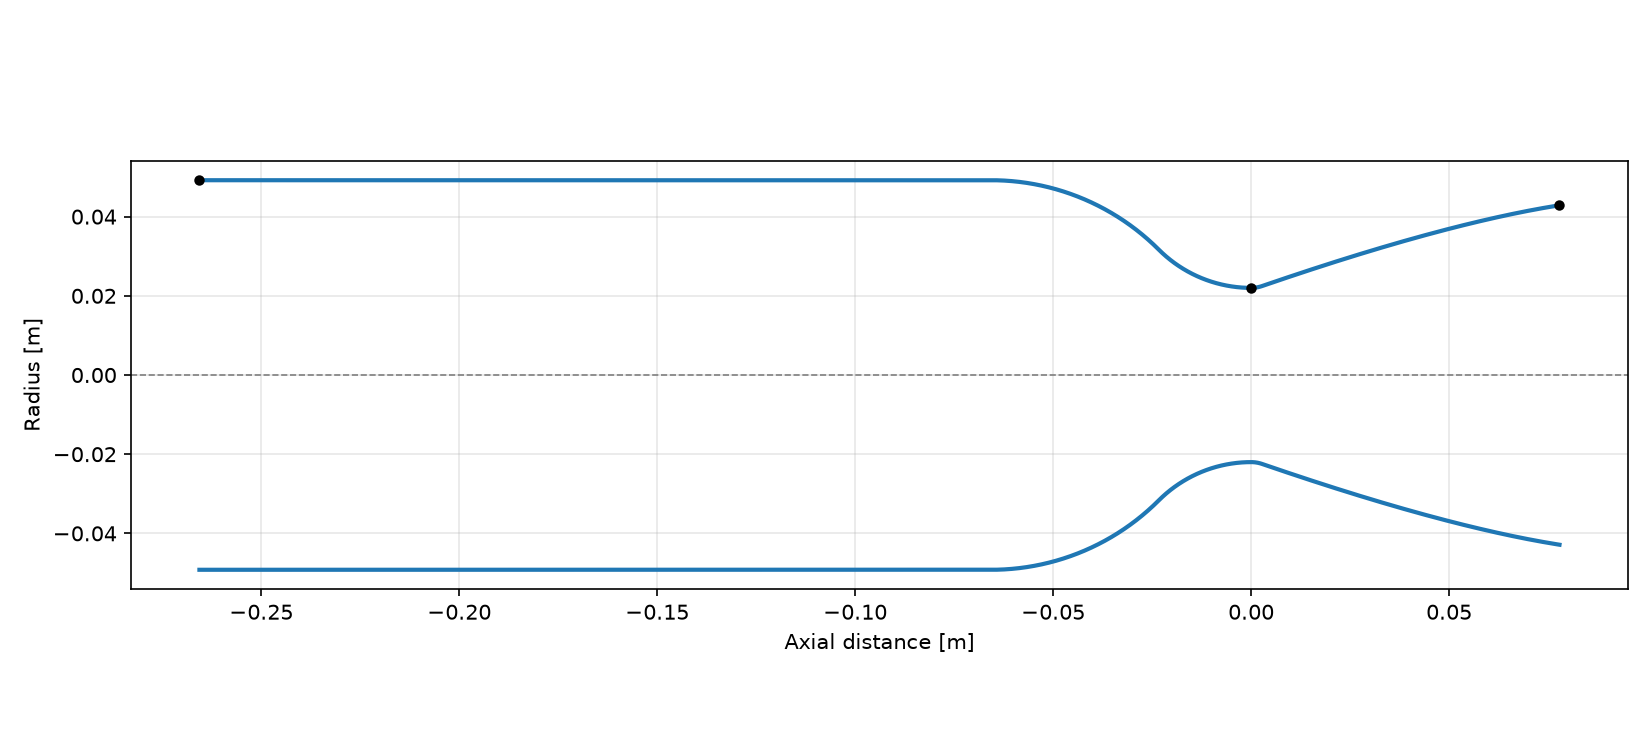
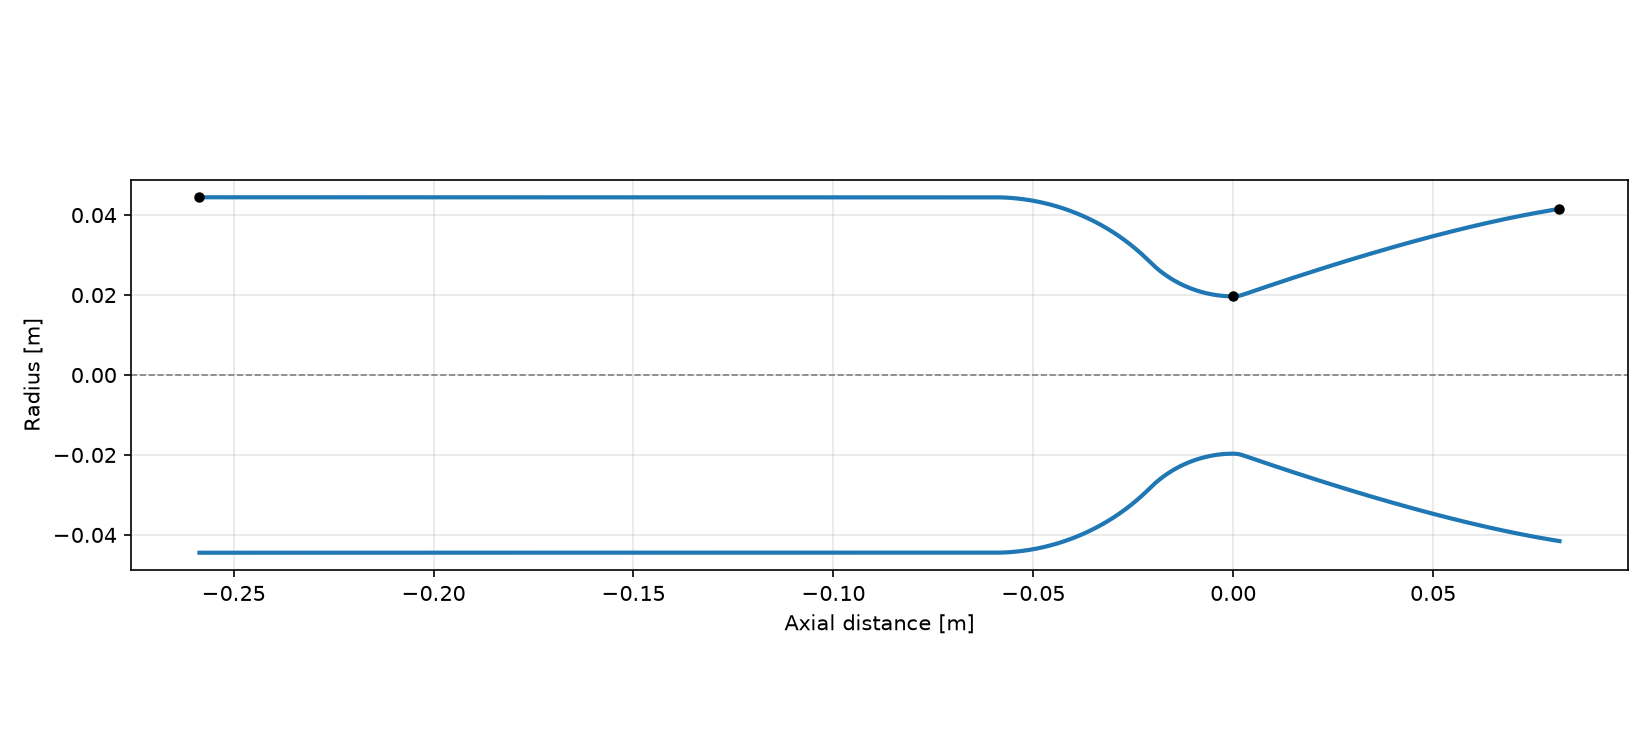
idk

diff --git a/Sizing/main.py b/Sizing/main.py
@@ -48,7 +48,7 @@ theta_n_deg = 19 #deg from rao tables (100% bell, eps ~3.65)
 theta_e_deg = 9 #from Rao tables (100% bell, eps ~3.65)
 chamber_sizing_mode = "chamber_diameter" #choose "contraction_ratio" or "chamber_diameter"
 contraction_ratio = 5 #chamber area / throat area; input only in contraction_ratio mode
-chamber_diameter = .0762 #m (0.0762 = 76.2 mm); input only in chamber_diameter mode
+chamber_diameter = .0889 #m (0.0889 = 88.9 mm); input only in chamber_diameter mode
 conv_half_angle_deg = 45 #deg, wall angle between the start of throat and entry arc
 length_pct = 1.0 #Rao percentage - 100% Rao Nozzle
 cone_half_angle_deg = 15 #deg - keep at 15.
